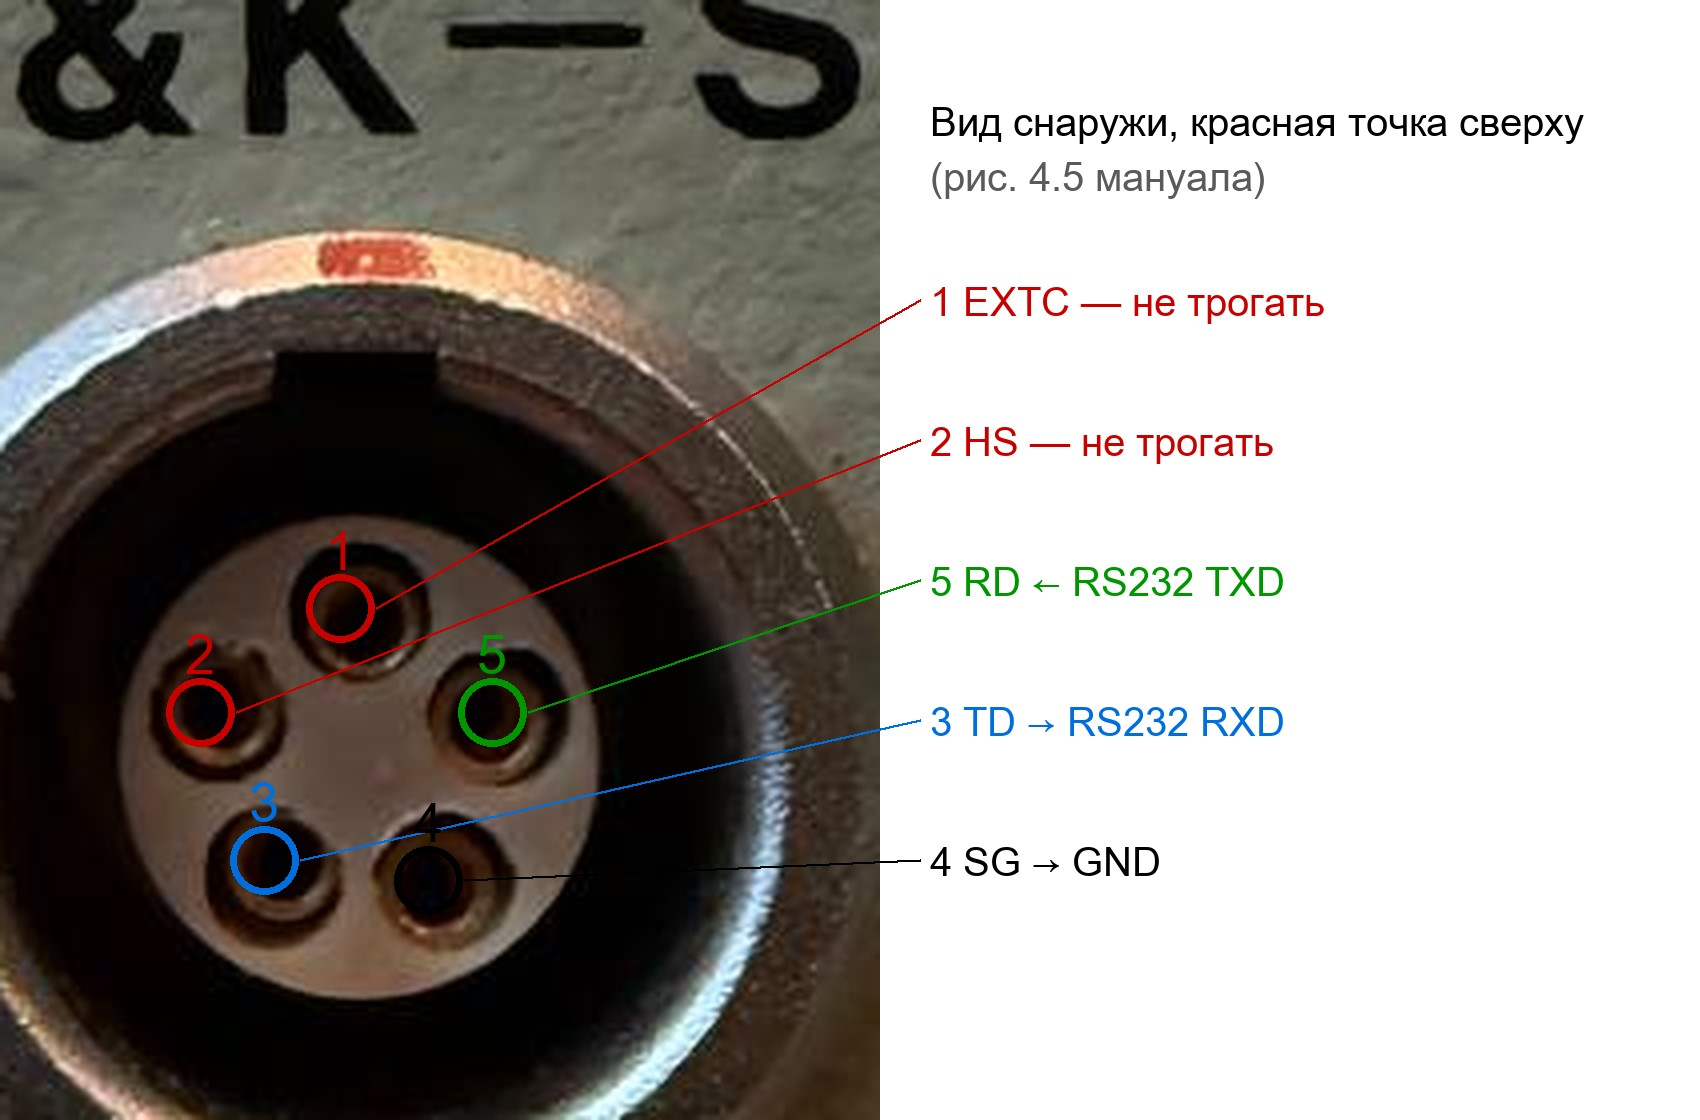
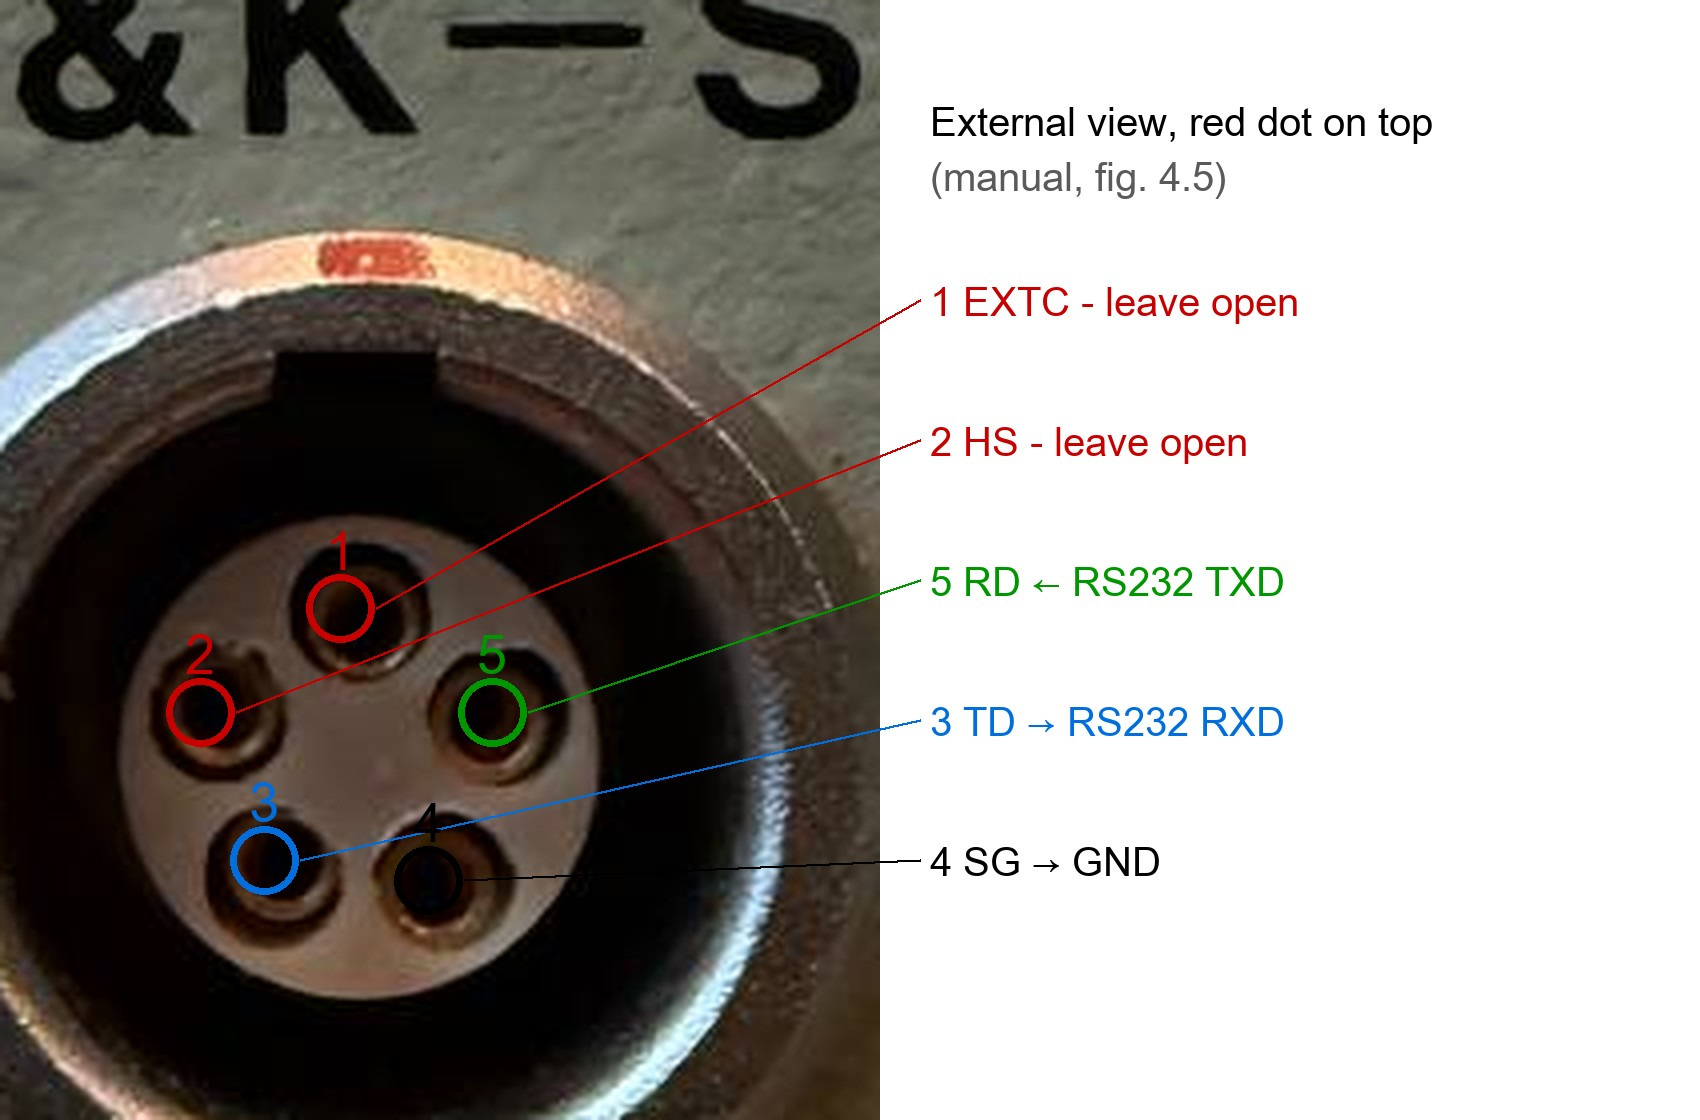
README: ASCII only, photos, a short note on the printer
Socket photo relabelled in English with tools/annotate_socket.py.

Changed region(s): [[0.53, 0.0938, 0.9353, 0.1875], [0.6235, 0.25, 0.7794, 0.2812], [0.6235, 0.375, 0.7482, 0.4062]]

diff --git a/README.md b/README.md
@@ -1,28 +1,63 @@
 # B&K 2318 thermal printer + ESP32-C6
 
-Notes, firmware and probe scripts for driving a **Brüel & Kjær Type 2318** graphics printer (1980s, 58 mm thermal paper) with the **ZI 0054** serial interface module from a modern computer. The printer is not modified: a small external adapter plugs into its B&K-SI socket.
+Notes, firmware and probe scripts for driving a **Bruel & Kjaer Type 2318** graphics printer (a portable thermal printer from the late 1980s) with its **ZI 0054** serial interface module from a modern computer. The printer is not modified: a small external adapter plugs into its B&K-SI socket.
 
 ```
-computer ──USB──▶ ESP32-C6 + SP3232 ──RS-232, 1200 baud──▶ B&K-SI socket (LEMO 5-pin) ──▶ 2318
+computer --USB--> ESP32-C6 + SP3232 --RS-232, 1200 baud--> B&K-SI socket (LEMO 5-pin) --> 2318
 ```
 
-![The adapter on the printer](evidence/printer_SN1941478/bench_setup.jpg)
+<table>
+  <tr>
+    <td width="50%"><img src="evidence/printer_SN1941478/first_print_HELLO_2318.jpg" alt="The B&K 2318 printing its first line from the adapter"></td>
+    <td width="50%"><img src="evidence/printer_SN1941478/bench_setup.jpg" alt="The adapter: nanoESP32-C6, SP3232 module, wires in the B&K-SI socket"></td>
+  </tr>
+  <tr>
+    <td>The 2318 with the ZI 0054 module, first line printed from the ESP32-C6.</td>
+    <td>The adapter: MuseLab nanoESP32-C6, an SP3232 RS-232 module, and resistor legs in the B&K-SI socket instead of a LEMO plug.</td>
+  </tr>
+</table>
 
 Everything here was measured on one printer, SN 1941478 with PROM VP1915, unless marked otherwise. If yours behaves differently, please open an issue.
 
+## About the printer
+
+The **Type 2318 Graphics Printer** was made in Denmark by Bruel & Kjaer, the maker of sound and vibration instruments. It is a battery-powered companion for B&K sound level meters and analysers (2231, 2236, 2239, 2260, 4436 and others): plug it in, press print on the instrument, and get a paper record of the measurement in the field. Our copy of the manual is dated June 1988.
+
+- **Print:** thermal, a single column of 7 dots on a moving carriage, 0.8 lines per second.
+- **Paper:** 58 mm roll, about 15 m (about 4000 lines). A normal 57 mm till roll works.
+- **Text:** 24 characters per line, or 12 in double width; inverse video; left or right alignment.
+- **Character sets:** 11 in ROM (US ASCII, English, German, French, Spanish, Italian, Swedish, Danish/Norwegian, Russian KOI-7, Greek, Japanese katakana), plus a rune set that the manual does not mention, and 96 user-defined 7x7 characters.
+- **Graphics:** a 168-dot line with commands for lines, bars, dot columns and cursor moves, used by the instruments to print bar charts next to the numbers.
+- **Interface:** the plug-in ZI 0054 module holds the microcontroller (an RCA 1805) and the firmware, and gives a serial port, B&K-SI, on a 5-pin LEMO socket: RS-232 style, 50 to 19200 baud, XON/XOFF and a READY/BUSY line, about 7 KB of buffer.
+- **Power:** 4 x 1.25 V NiCd cells, 0.5 Ah, 1000 to 2000 lines per charge.
+- **Size:** 202 x 85 x 52 mm, about 1 kg.
+
+They still turn up on auction sites, often without cables or a manual; ours cost $15. With an adapter they make a nice little receipt printer.
+
 ## What works
 
-- **Text:** 24 characters per line (12 wide), wide, inverse, right alignment; Latin, Russian (KOI-7, uppercase), Greek, katakana and the hidden rune set are all in ROM.
-- **Own characters (DRC):** 96 user-defined 7 × 7 glyphs. We use them for ✓ ✗ ☐ → …, Ъ, and a full lowercase Cyrillic set.
+- **Text:** 24 characters per line (12 wide), wide, inverse, right alignment; Latin, Russian (uppercase), Greek, katakana and the hidden rune set are all in ROM.
+- **Own characters (DRC):** 96 user-defined 7x7 glyphs. We use them for a check mark, a cross, a tick box, arrows, an ellipsis, and a full lowercase Cyrillic set.
 - **PDI graphics:** lines, bars, dot columns, text at any dot position. Bold by overprinting, Code 128 barcodes that a scanner reads, divider tiles.
-- **Adapter firmware v2:** print jobs over USB that print completely or not at all, a check that the printer is on, built-in glyphs, cancel within a line or two. Python client included.
+- **Adapter firmware v2:** print jobs over USB that print completely or not at all, a check that the printer is on, built-in glyphs, cancel within a line or two. A Python client is included.
+
+<table>
+  <tr>
+    <td width="50%"><img src="evidence/printer_SN1941478/pdi_probe_2026-10-20.jpg" alt="Graphics probe strip: glyphs, lines, bars, bold text, a Code 128 barcode and a mock receipt"></td>
+    <td width="50%"><img src="evidence/printer_SN1941478/BK-SI_socket_pins_annotated.jpg" alt="The B&K-SI socket with numbered pins"></td>
+  </tr>
+  <tr>
+    <td>A probe strip: own glyphs, PDI lines and bars, overlaid bars, bold by overprinting, wide and normal text in one line, a Code 128 barcode, and a mock receipt.</td>
+    <td>The B&K-SI socket from the outside. Only pins 3, 4 and 5 are needed.</td>
+  </tr>
+</table>
 
 ## Things worth knowing before you start
 
 - **Power only from batteries.** Without batteries, never put more than 6 V on the power socket: the original mains adaptor can burn the head (FrodeM's warning; `docs/hardware.md`).
 - **Check the backup NiCd cells** under the ZI 0054 module. Both of ours had leaked, and so had FrodeM's.
 - **XON/XOFF arrive as 0x91/0x93** on an 8N1 receiver when the printer is in its factory 7-bit mode. Mask with `& 0x7F`, or flow control never triggers.
-- **Keep bytes ≥ 0x80 out of the text.** In 7-bit mode bit 7 is dropped, so a UTF-8 byte 0x9F becomes 0x1F, a full reset. Bytes `04 0E 0F 19 1B 1D 1F` are commands; `0E` turns everything after it into graphics.
+- **Keep bytes >= 0x80 out of the text.** In 7-bit mode bit 7 is dropped, so a UTF-8 byte 0x9F becomes 0x1F, a full reset. Bytes `04 0E 0F 19 1B 1D 1F` are commands; `0E` turns everything after it into graphics.
 - **A printer that is off looks like one that is on**: bytes just vanish. NSR (`1F`) makes it answer XOFF + XON within about 11 ms, which is a cheap power check.
 - **CR right after LF (and LF after CR) is ignored.** The last printed line stays under the head until two more lines are fed.
 - **Faint print is usually old paper.** A fresh 57 mm till roll fixed ours.
@@ -40,7 +75,7 @@ Everything here was measured on one printer, SN 1941478 with PROM VP1915, unless
 | `firmware/` | Arduino sketches v0 (debug console), v1, v2; protocols `API_v1.md`, `API_v2.md` |
 | `host/bk2318.py` | Python client for firmware v2 (library and command line) |
 | `tools/` | probe scripts that printed the test strips |
-| `glyphs/` | 7 × 7 glyph designs with their `ESC C` bytes |
+| `glyphs/` | 7x7 glyph designs with their `ESC C` bytes |
 | `evidence/` | photos, scans and logs behind the measurements |
 
 ## Quick start
@@ -57,7 +92,7 @@ With a PC that has a real RS-232 port, you don't need the adapter: see stoneset'
 
 ## Tags in the docs
 
-[manual] the instruction manual, with printed page numbers · [forum] EEVblog thread · [measured] on our printer · [calc] calculated · [hypothesis] not verified · [conclusion] follows from the above · [choice] a design decision for our firmware.
+[manual] the instruction manual, with printed page numbers; [forum] EEVblog thread; [measured] on our printer; [calc] calculated; [hypothesis] not verified; [conclusion] follows from the above; [choice] a design decision for our firmware.
 
 ## Thanks
 
@@ -67,4 +102,4 @@ With a PC that has a real RS-232 port, you don't need the adapter: see stoneset'
 
 ## License
 
-[CC0 1.0](LICENSE): public domain, use it any way you like. The manual is not included; it belongs to Brüel & Kjær. This project has no connection to Brüel & Kjær.
+[CC0 1.0](LICENSE): public domain, use it any way you like. The manual is not included; it belongs to Bruel & Kjaer. This project has no connection to Bruel & Kjaer.
